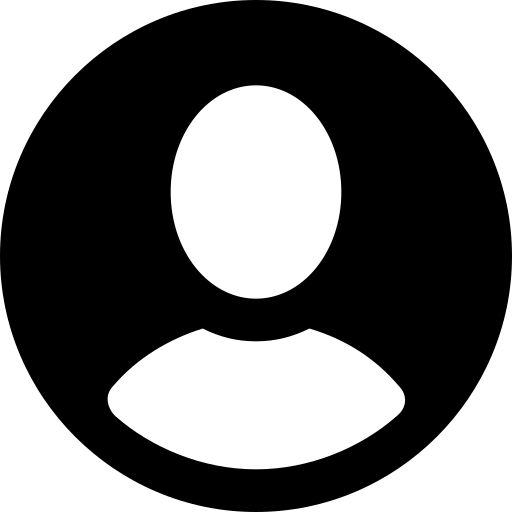
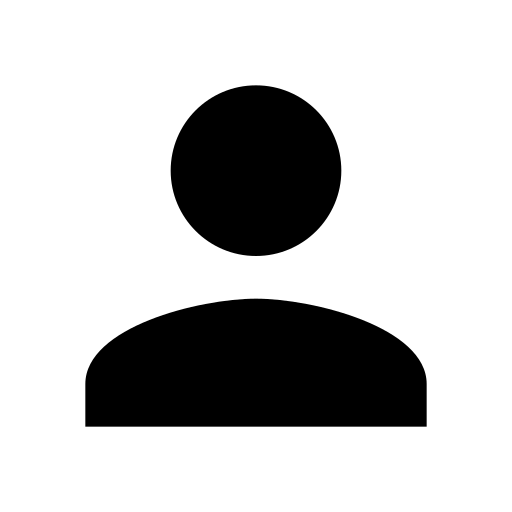
profile page editing

diff --git a/lib/presenter/profile/widgets/name_photo_profile.dart b/lib/presenter/profile/widgets/name_photo_profile.dart
@@ -16,16 +16,16 @@ class NamePhotoProfile extends StatelessWidget {
           Stack(
             children: [
               CircleAvatar(
-                radius: 95,
+                radius: 59,
                 backgroundColor: Colors.black,
                 child: CircleAvatar(
-                  radius: 89,
+                  radius: 55,
                   backgroundColor: Colors.white,
                   child: CircleAvatar(
-                    radius: 85,
+                    radius: 50,
                     backgroundColor: Colors.white,
                     backgroundImage: Image.asset(
-                      imgStore,
+                      imgUser,
                       fit: BoxFit.cover,
                     ).image,
                   ),
@@ -33,7 +33,7 @@ class NamePhotoProfile extends StatelessWidget {
               ),
               Positioned(
                 bottom: 0,
-                right: 0,
+                right: 12,
                 child: CircleAvatar(
                   backgroundColor: Colors.black,
                   child: IconButton(
@@ -54,8 +54,8 @@ class NamePhotoProfile extends StatelessWidget {
               ),
             ],
           ),
-          const SizedBox(
-            height: 10,
+          SizedBox(
+            height: MediaQuery.of(context).size.height * 0.03,
           ),
           Text(
             logedUser.company,

diff --git a/lib/presenter/profile/widgets/body_profile_page.dart b/lib/presenter/profile/widgets/body_profile_page.dart
@@ -20,9 +20,15 @@ class BodyProfilePage extends StatelessWidget {
             pageRoute: HomePage(),
             isProfile: true,
           ),
+          SizedBox(
+            height: MediaQuery.of(context).size.height * 0.05,
+          ),
           const NamePhotoProfile(),
+          SizedBox(
+            height: MediaQuery.of(context).size.height * 0.03,
+          ),
           const ContainerInfo(),
-          SizedBox(height: MediaQuery.of(context).size.height * 0.01),
+          SizedBox(height: MediaQuery.of(context).size.height * 0.05),
           BtnStandardApp(
             title: "Sair",
             pageRoute: const LoginPage(),

diff --git a/lib/shared/widgets/top_bar_app.dart b/lib/shared/widgets/top_bar_app.dart
@@ -19,7 +19,6 @@ class TopBarApp extends StatelessWidget {
   Widget build(BuildContext context) {
     return Container(
       width: double.maxFinite,
-      margin: const EdgeInsets.only(bottom: 5),
       padding: const EdgeInsets.only(bottom: 10, top: 28, right: 40, left: 20),
       decoration: const BoxDecoration(
         color: Colors.black,
